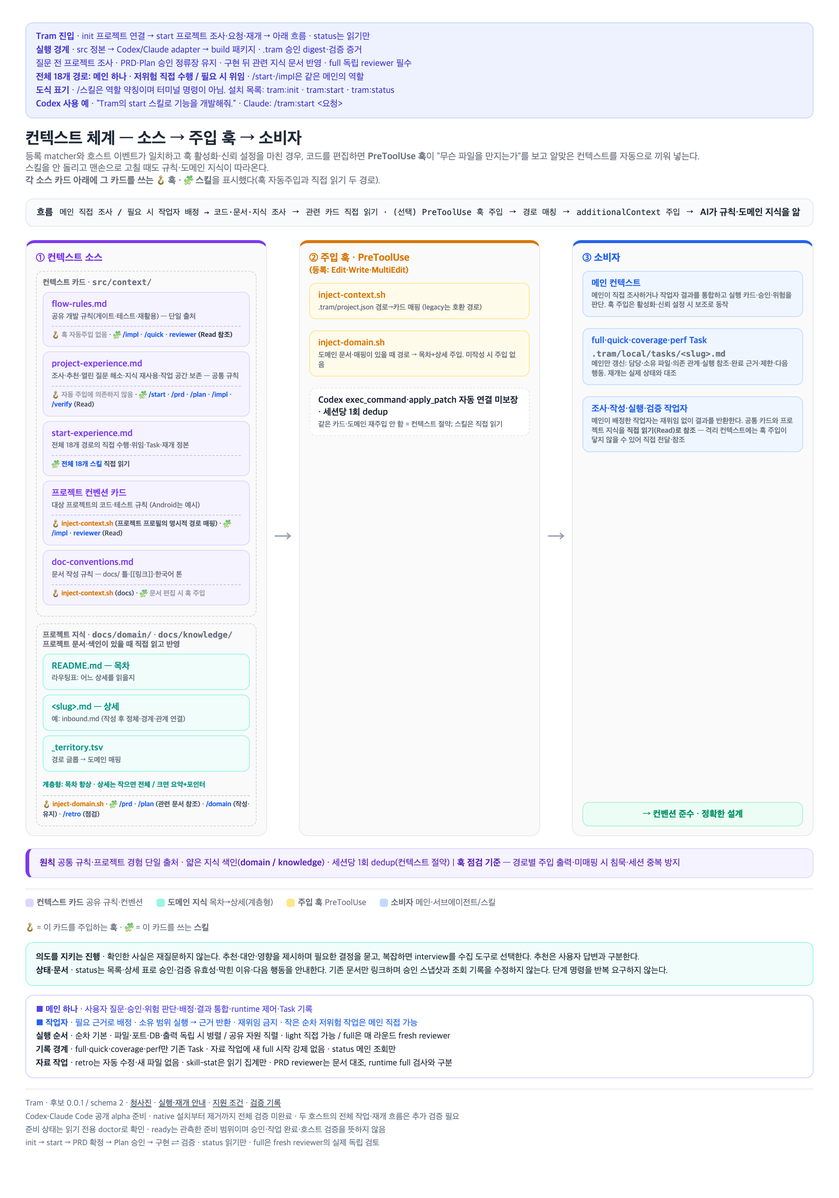
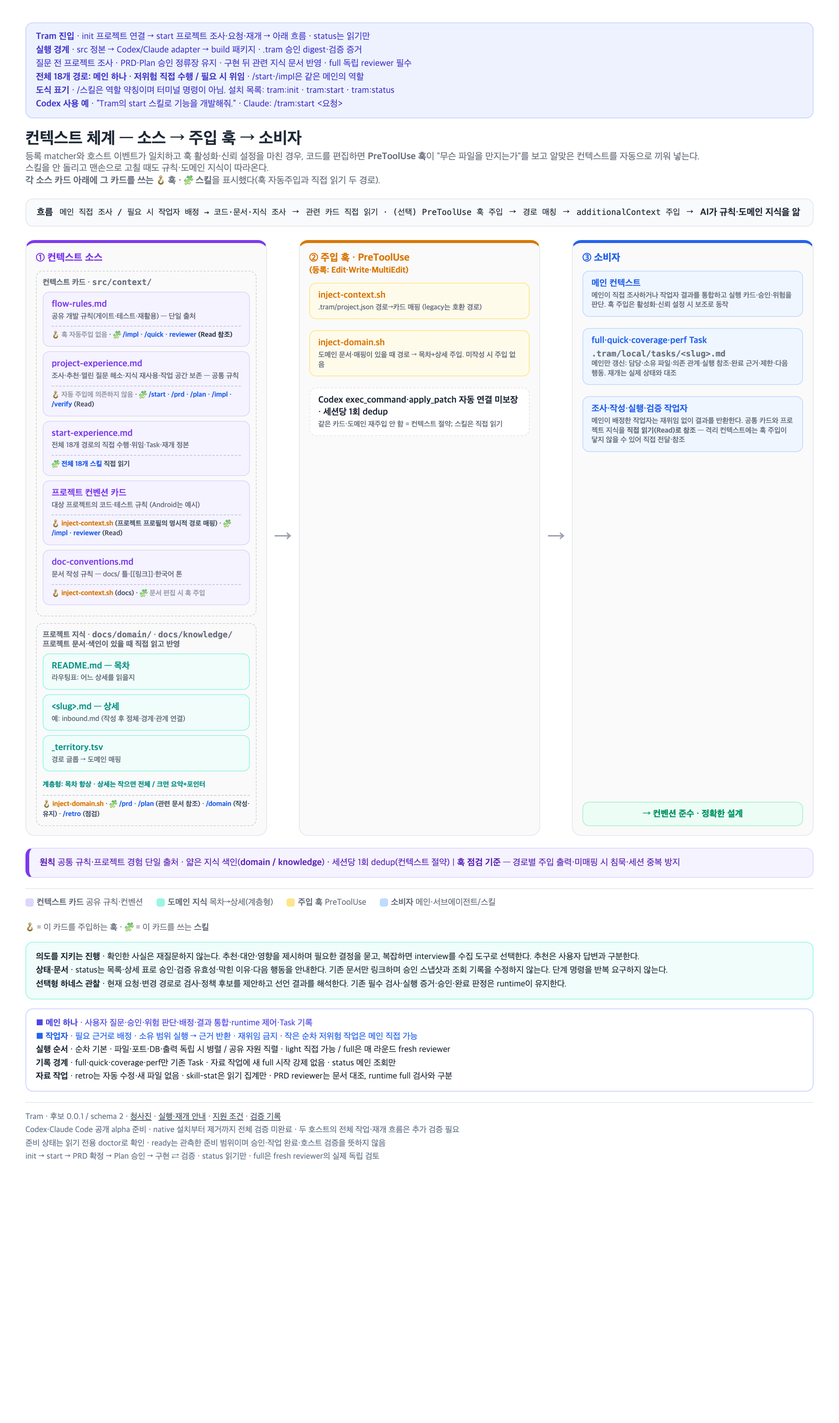
docs: 질문 방식과 하네스 안내 정비

diff --git a/docs/diagrams/context-system.html b/docs/diagrams/context-system.html
@@ -1,4 +1,4 @@
-<!doctype html><html lang="ko"><head><meta charset="utf-8"><title>컨텍스트 체계</title><style>*{box-sizing:border-box}body{font-family:-apple-system,"Apple SD Gothic Neo",sans-serif;color:#1f2937;margin:0;padding:30px 34px;width:1120px}h1{font-size:22px;margin:0 0 3px}.sub{color:#6b7280;font-size:12.5px;margin:0 0 16px}.flowband{background:#f8fafc;border:1px solid #e5e7eb;border-radius:10px;padding:10px 14px;font-size:12.5px;margin-bottom:18px;display:flex;gap:9px;flex-wrap:wrap;align-items:center}code{font-size:11px}.pipe{display:flex;gap:10px}.col{flex:1;border:1px solid #e5e7eb;border-radius:12px;background:#fafafa;padding:12px 13px;display:flex;flex-direction:column;gap:9px}.src{border-top:4px solid #7c3aed}.hook{border-top:4px solid #d97706}.cons{border-top:4px solid #2563eb}.head{font-size:13.5px;font-weight:800}.src .head{color:#7c3aed}.hook .head{color:#d97706}.cons .head{color:#2563eb}.group{border:1px dashed #d1d5db;border-radius:9px;padding:8px}.gt{font-size:10.5px;color:#6b7280;font-weight:800;margin-bottom:6px}.card{border:1px solid;border-radius:9px;padding:8px 11px;font-size:12px;line-height:1.32;font-weight:700;margin-bottom:6px}.card .k{display:block;font-size:9.7px;color:#6b7280;font-weight:600;margin-top:2px}.custom{background:#f5f3ff;border-color:#ddd6fe;color:#7c3aed}.stage{background:#f0fdfa;border-color:#99f6e4;color:#0d9488}.hc{background:#fffbeb;border-color:#fde68a;color:#d97706}.agent{background:#eff6ff;border-color:#bfdbfe;color:#2563eb}.dedup{background:white;border-color:#e5e7eb;border-style:dashed}.arrow{display:flex;align-items:center;font-size:26px;color:#9ca3af;font-weight:800}.lift{font-size:9.5px;color:#0d9488;font-weight:800}.outcome{margin-top:auto;background:#ecfdf5;border:1px solid #a7f3d0;color:#059669;border-radius:9px;padding:8px 11px;font-size:12px;text-align:center;font-weight:800}.principle{margin-top:16px;background:#f5f3ff;border:1px solid #ddd6fe;border-left:5px solid #7c3aed;border-radius:10px;padding:10px 14px;font-size:12px;line-height:1.5;color:#5b21b6}.legend{flex-wrap:wrap;margin-top:14px;border-top:1px solid #e5e7eb;padding-top:11px;display:flex;gap:18px;font-size:11.5px;color:#6b7280;flex-wrap:wrap}.sw{display:inline-block;width:11px;height:11px;border-radius:3px;vertical-align:middle;margin-right:4px}.uses{display:block;font-size:9.3px;font-weight:700;color:#475569;margin-top:6px;padding-top:5px;border-top:1px dashed rgba(100,116,139,.35);line-height:1.4}.uses b{color:#334155;font-weight:800}.uses .uh{color:#d97706;font-weight:800}.uses .us{color:#2563eb;font-weight:800}.uses .un{color:#9ca3af;font-weight:700}</style><style>.project-source{margin-top:14px;padding-top:10px;border-top:1px solid #e5e7eb;color:#64748b;font-size:11px;line-height:1.6;letter-spacing:0;overflow-wrap:anywhere}.project-source a{color:#475569;text-decoration:underline}.project-source code{font-size:10px}</style><style>.legend>span{max-width:100%;overflow-wrap:anywhere}</style></head><body><div style="background:#eef2ff;border:1px solid #c7d2fe;border-radius:10px;padding:9px 13px;margin-bottom:14px;font-size:12px;line-height:1.5;color:#4338ca"><b>Tram 진입</b> · init 프로젝트 연결 → start 프로젝트 조사·요청·재개 → 아래 흐름 · status는 읽기만<br><b>실행 경계</b> · src 정본 → Codex/Claude adapter → build 패키지 · .tram 승인 digest·검증 증거<br>질문 전 프로젝트 조사 · PRD·Plan 승인 정류장 유지 · 구현 뒤 관련 지식 문서 반영 · full 독립 reviewer 필수<br><b>전체 18개 경로: 메인 하나 · 저위험 직접 수행 / 필요 시 위임</b> · /start·/impl은 같은 메인의 역할<br><b>도식 표기</b> · /스킬은 역할 약칭이며 터미널 명령이 아님. 설치 목록: tram:init · tram:start · tram:status<br><b>Codex 사용 예</b> · “Tram의 start 스킬로 기능을 개발해줘.” · Claude: /tram:start &lt;요청&gt;</div><h1>컨텍스트 체계 — 소스 → 주입 훅 → 소비자</h1><p class="sub">등록 matcher와 호스트 이벤트가 일치하고 훅 활성화·신뢰 설정을 마친 경우, 코드를 편집하면 <b>PreToolUse 훅</b>이 "무슨 파일을 만지는가"를 보고 알맞은 컨텍스트를 자동으로 끼워 넣는다.<br>스킬을 안 돌리고 맨손으로 고칠 때도 규칙·도메인 지식이 따라온다.<br><b>각 소스 카드 아래에 그 카드를 쓰는 🪝 훅 · 🧩 스킬</b>을 표시했다(훅 자동주입과 직접 읽기 두 경로).</p><div class="flowband"><b>흐름</b><code>메인 직접 조사 / 필요 시 작업자 배정 → 코드·문서·지식 조사</code> → <code>관련 카드 직접 읽기 · (선택) PreToolUse 훅 주입</code> → <code>경로 매칭</code> → <code>additionalContext 주입</code> → <b>AI가 규칙·도메인 지식을 앎</b></div><div class="pipe"><div class="col src"><div class="head">① 컨텍스트 소스</div><div class="group"><div class="gt">컨텍스트 카드 · <code>src/context/</code></div><div class="card custom">flow-rules.md<span class="k">공유 개발 규칙(게이트·테스트·재활용) — 단일 출처</span><span class="uses">🪝 <span class="un">훅 자동주입 없음</span> · 🧩 <span class="us">/impl · /quick · reviewer</span> <b>(Read 참조)</b></span></div><div class="card custom">project-experience.md<span class="k">조사·추천·열린 질문 해소·지식 재사용·작업 공간 보존 — 공통 규칙</span><span class="uses">🪝 <span class="un">자동 주입에 의존하지 않음</span> · 🧩 <span class="us">/start · /prd · /plan · /impl · /verify</span> (Read)</span></div><div class="card custom">start-experience.md<span class="k">전체 18개 경로의 직접 수행·위임·Task·재개 정본</span><span class="uses">🧩 <span class="us">전체 18개 스킬</span> 직접 읽기</span></div><div class="card custom">프로젝트 컨벤션 카드<span class="k">대상 프로젝트의 코드·테스트 규칙 (Android는 예시)</span><span class="uses">🪝 <span class="uh">inject-context.sh</span> (프로젝트 프로필의 명시적 경로 매핑) · 🧩 <span class="us">/impl · reviewer</span> (Read)</span></div><div class="card custom">doc-conventions.md<span class="k">문서 작성 규칙 — docs/ 틀·[[링크]]·한국어 톤</span><span class="uses">🪝 <span class="uh">inject-context.sh</span> (docs) · 🧩 <span class="un">문서 편집 시 훅 주입</span></span></div></div><div class="group"><div class="gt">프로젝트 지식 · <code>docs/domain/</code> · <code>docs/knowledge/</code><br>프로젝트 문서·색인이 있을 때 직접 읽고 반영</div><div class="card stage">README.md — 목차<span class="k">라우팅표: 어느 상세를 읽을지</span></div><div class="card stage">&lt;slug&gt;.md — 상세<span class="k">예: inbound.md (작성 후 정체·경계·관계 연결)</span></div><div class="card stage">_territory.tsv<span class="k">경로 글롭 → 도메인 매핑</span></div><span class="lift">계층형: 목차 항상 · 상세는 작으면 전체 / 크면 요약+포인터</span><span class="uses">🪝 <span class="uh">inject-domain.sh</span> · 🧩 <span class="us">/prd · /plan</span> (관련 문서 참조) · <span class="us">/domain</span> (작성·유지) · <span class="us">/retro</span> (점검)</span></div></div><div class="arrow">→</div><div class="col hook"><div class="head">② 주입 훅 · PreToolUse<br><small>(등록: Edit·Write·MultiEdit)</small></div><div class="card hc">inject-context.sh<span class="k">.tram/project.json 경로→카드 매핑 (legacy는 호환 경로)</span></div><div class="card hc">inject-domain.sh<span class="k">도메인 문서·매핑이 있을 때 경로 → 목차+상세 주입. 미작성 시 주입 없음</span></div><div class="card dedup">Codex exec_command·apply_patch 자동 연결 미보장 · 세션당 1회 dedup<span class="k">같은 카드·도메인 재주입 안 함 = 컨텍스트 절약; 스킬은 직접 읽기</span></div></div><div class="arrow">→</div><div class="col cons"><div class="head">③ 소비자</div><div class="card agent">메인 컨텍스트<span class="k">메인이 직접 조사하거나 작업자 결과를 통합하고 실행 카드·승인·위험을 판단. 훅 주입은 활성화·신뢰 설정 시 보조로 동작</span></div><div class="card agent">full·quick·coverage·perf Task<span class="k"><code>.tram/local/tasks/&lt;slug&gt;.md</code><br>메인만 갱신: 담당·소유 파일·의존 관계·실행 참조·완료 근거·제한·다음 행동. 재개는 실제 상태와 대조</span></div><div class="card agent">조사·작성·실행·검증 작업자<span class="k">메인이 배정한 작업자는 재위임 없이 결과를 반환한다. 공통 카드와 프로젝트 지식을 <b>직접 읽기(Read)로 참조</b> — 격리 컨텍스트에는 훅 주입이 닿지 않을 수 있어 직접 전달·참조</span></div><div class="outcome">→ 컨벤션 준수 · 정확한 설계</div></div></div><div class="principle"><b>원칙</b> 공통 규칙·프로젝트 경험 단일 출처 · 얇은 지식 색인(<b>domain / knowledge</b>) · 세션당 1회 dedup(컨텍스트 절약) | <b>훅 점검 기준</b> — 경로별 주입 출력·미매핑 시 침묵·세션 중복 방지</div><div class="legend"><span><span class="sw" style="background:#ddd6fe"></span><b>컨텍스트 카드</b> 공유 규칙·컨벤션</span><span><span class="sw" style="background:#99f6e4"></span><b>도메인 지식</b> 목차→상세(계층형)</span><span><span class="sw" style="background:#fde68a"></span><b>주입 훅</b> PreToolUse</span><span><span class="sw" style="background:#bfdbfe"></span><b>소비자</b> 메인·서브에이전트/스킬</span><span style="flex-basis:100%;margin-left:0">🪝 = 이 카드를 주입하는 <b>훅</b> · 🧩 = 이 카드를 쓰는 <b>스킬</b></span></div><div style="margin:12px 0;padding:10px 13px;border:1px solid #99f6e4;border-radius:10px;background:#f0fdfa;font-size:11.5px;line-height:1.6"><b>의도를 지키는 진행</b> · 확인한 사실은 재질문하지 않는다. 추천·대안·영향을 제시하며 필요한 결정을 묻고, 복잡하면 interview를 수집 도구로 선택한다. 추천은 사용자 답변과 구분한다.<br><b>상태·문서</b> · status는 목록·상세 표로 승인·검증 유효성·막힌 이유·다음 행동을 안내한다. 기존 문서만 링크하며 승인 스냅샷과 조회 기록을 수정하지 않는다. 단계 명령을 반복 요구하지 않는다.</div>
+<!doctype html><html lang="ko"><head><meta charset="utf-8"><title>컨텍스트 체계</title><style>*{box-sizing:border-box}body{font-family:-apple-system,"Apple SD Gothic Neo",sans-serif;color:#1f2937;margin:0;padding:30px 34px;width:1120px}h1{font-size:22px;margin:0 0 3px}.sub{color:#6b7280;font-size:12.5px;margin:0 0 16px}.flowband{background:#f8fafc;border:1px solid #e5e7eb;border-radius:10px;padding:10px 14px;font-size:12.5px;margin-bottom:18px;display:flex;gap:9px;flex-wrap:wrap;align-items:center}code{font-size:11px}.pipe{display:flex;gap:10px}.col{flex:1;border:1px solid #e5e7eb;border-radius:12px;background:#fafafa;padding:12px 13px;display:flex;flex-direction:column;gap:9px}.src{border-top:4px solid #7c3aed}.hook{border-top:4px solid #d97706}.cons{border-top:4px solid #2563eb}.head{font-size:13.5px;font-weight:800}.src .head{color:#7c3aed}.hook .head{color:#d97706}.cons .head{color:#2563eb}.group{border:1px dashed #d1d5db;border-radius:9px;padding:8px}.gt{font-size:10.5px;color:#6b7280;font-weight:800;margin-bottom:6px}.card{border:1px solid;border-radius:9px;padding:8px 11px;font-size:12px;line-height:1.32;font-weight:700;margin-bottom:6px}.card .k{display:block;font-size:9.7px;color:#6b7280;font-weight:600;margin-top:2px}.custom{background:#f5f3ff;border-color:#ddd6fe;color:#7c3aed}.stage{background:#f0fdfa;border-color:#99f6e4;color:#0d9488}.hc{background:#fffbeb;border-color:#fde68a;color:#d97706}.agent{background:#eff6ff;border-color:#bfdbfe;color:#2563eb}.dedup{background:white;border-color:#e5e7eb;border-style:dashed}.arrow{display:flex;align-items:center;font-size:26px;color:#9ca3af;font-weight:800}.lift{font-size:9.5px;color:#0d9488;font-weight:800}.outcome{margin-top:auto;background:#ecfdf5;border:1px solid #a7f3d0;color:#059669;border-radius:9px;padding:8px 11px;font-size:12px;text-align:center;font-weight:800}.principle{margin-top:16px;background:#f5f3ff;border:1px solid #ddd6fe;border-left:5px solid #7c3aed;border-radius:10px;padding:10px 14px;font-size:12px;line-height:1.5;color:#5b21b6}.legend{flex-wrap:wrap;margin-top:14px;border-top:1px solid #e5e7eb;padding-top:11px;display:flex;gap:18px;font-size:11.5px;color:#6b7280;flex-wrap:wrap}.sw{display:inline-block;width:11px;height:11px;border-radius:3px;vertical-align:middle;margin-right:4px}.uses{display:block;font-size:9.3px;font-weight:700;color:#475569;margin-top:6px;padding-top:5px;border-top:1px dashed rgba(100,116,139,.35);line-height:1.4}.uses b{color:#334155;font-weight:800}.uses .uh{color:#d97706;font-weight:800}.uses .us{color:#2563eb;font-weight:800}.uses .un{color:#9ca3af;font-weight:700}</style><style>.project-source{margin-top:14px;padding-top:10px;border-top:1px solid #e5e7eb;color:#64748b;font-size:11px;line-height:1.6;letter-spacing:0;overflow-wrap:anywhere}.project-source a{color:#475569;text-decoration:underline}.project-source code{font-size:10px}</style><style>.legend>span{max-width:100%;overflow-wrap:anywhere}</style></head><body><div style="background:#eef2ff;border:1px solid #c7d2fe;border-radius:10px;padding:9px 13px;margin-bottom:14px;font-size:12px;line-height:1.5;color:#4338ca"><b>Tram 진입</b> · init 프로젝트 연결 → start 프로젝트 조사·요청·재개 → 아래 흐름 · status는 읽기만<br><b>실행 경계</b> · src 정본 → Codex/Claude adapter → build 패키지 · .tram 승인 digest·검증 증거<br>질문 전 프로젝트 조사 · PRD·Plan 승인 정류장 유지 · 구현 뒤 관련 지식 문서 반영 · full 독립 reviewer 필수<br><b>전체 18개 경로: 메인 하나 · 저위험 직접 수행 / 필요 시 위임</b> · /start·/impl은 같은 메인의 역할<br><b>도식 표기</b> · /스킬은 역할 약칭이며 터미널 명령이 아님. 설치 목록: tram:init · tram:start · tram:status<br><b>Codex 사용 예</b> · “Tram의 start 스킬로 기능을 개발해줘.” · Claude: /tram:start &lt;요청&gt;</div><h1>컨텍스트 체계 — 소스 → 주입 훅 → 소비자</h1><p class="sub">등록 matcher와 호스트 이벤트가 일치하고 훅 활성화·신뢰 설정을 마친 경우, 코드를 편집하면 <b>PreToolUse 훅</b>이 "무슨 파일을 만지는가"를 보고 알맞은 컨텍스트를 자동으로 끼워 넣는다.<br>스킬을 안 돌리고 맨손으로 고칠 때도 규칙·도메인 지식이 따라온다.<br><b>각 소스 카드 아래에 그 카드를 쓰는 🪝 훅 · 🧩 스킬</b>을 표시했다(훅 자동주입과 직접 읽기 두 경로).</p><div class="flowband"><b>흐름</b><code>메인 직접 조사 / 필요 시 작업자 배정 → 코드·문서·지식 조사</code> → <code>관련 카드 직접 읽기 · (선택) PreToolUse 훅 주입</code> → <code>경로 매칭</code> → <code>additionalContext 주입</code> → <b>AI가 규칙·도메인 지식을 앎</b></div><div class="pipe"><div class="col src"><div class="head">① 컨텍스트 소스</div><div class="group"><div class="gt">컨텍스트 카드 · <code>src/context/</code></div><div class="card custom">flow-rules.md<span class="k">공유 개발 규칙(게이트·테스트·재활용) — 단일 출처</span><span class="uses">🪝 <span class="un">훅 자동주입 없음</span> · 🧩 <span class="us">/impl · /quick · reviewer</span> <b>(Read 참조)</b></span></div><div class="card custom">project-experience.md<span class="k">조사·추천·열린 질문 해소·지식 재사용·작업 공간 보존 — 공통 규칙</span><span class="uses">🪝 <span class="un">자동 주입에 의존하지 않음</span> · 🧩 <span class="us">/start · /prd · /plan · /impl · /verify</span> (Read)</span></div><div class="card custom">start-experience.md<span class="k">전체 18개 경로의 직접 수행·위임·Task·재개 정본</span><span class="uses">🧩 <span class="us">전체 18개 스킬</span> 직접 읽기</span></div><div class="card custom">프로젝트 컨벤션 카드<span class="k">대상 프로젝트의 코드·테스트 규칙 (Android는 예시)</span><span class="uses">🪝 <span class="uh">inject-context.sh</span> (프로젝트 프로필의 명시적 경로 매핑) · 🧩 <span class="us">/impl · reviewer</span> (Read)</span></div><div class="card custom">doc-conventions.md<span class="k">문서 작성 규칙 — docs/ 틀·[[링크]]·한국어 톤</span><span class="uses">🪝 <span class="uh">inject-context.sh</span> (docs) · 🧩 <span class="un">문서 편집 시 훅 주입</span></span></div></div><div class="group"><div class="gt">프로젝트 지식 · <code>docs/domain/</code> · <code>docs/knowledge/</code><br>프로젝트 문서·색인이 있을 때 직접 읽고 반영</div><div class="card stage">README.md — 목차<span class="k">라우팅표: 어느 상세를 읽을지</span></div><div class="card stage">&lt;slug&gt;.md — 상세<span class="k">예: inbound.md (작성 후 정체·경계·관계 연결)</span></div><div class="card stage">_territory.tsv<span class="k">경로 글롭 → 도메인 매핑</span></div><span class="lift">계층형: 목차 항상 · 상세는 작으면 전체 / 크면 요약+포인터</span><span class="uses">🪝 <span class="uh">inject-domain.sh</span> · 🧩 <span class="us">/prd · /plan</span> (관련 문서 참조) · <span class="us">/domain</span> (작성·유지) · <span class="us">/retro</span> (점검)</span></div></div><div class="arrow">→</div><div class="col hook"><div class="head">② 주입 훅 · PreToolUse<br><small>(등록: Edit·Write·MultiEdit)</small></div><div class="card hc">inject-context.sh<span class="k">.tram/project.json 경로→카드 매핑 (legacy는 호환 경로)</span></div><div class="card hc">inject-domain.sh<span class="k">도메인 문서·매핑이 있을 때 경로 → 목차+상세 주입. 미작성 시 주입 없음</span></div><div class="card dedup">Codex exec_command·apply_patch 자동 연결 미보장 · 세션당 1회 dedup<span class="k">같은 카드·도메인 재주입 안 함 = 컨텍스트 절약; 스킬은 직접 읽기</span></div></div><div class="arrow">→</div><div class="col cons"><div class="head">③ 소비자</div><div class="card agent">메인 컨텍스트<span class="k">메인이 직접 조사하거나 작업자 결과를 통합하고 실행 카드·승인·위험을 판단. 훅 주입은 활성화·신뢰 설정 시 보조로 동작</span></div><div class="card agent">full·quick·coverage·perf Task<span class="k"><code>.tram/local/tasks/&lt;slug&gt;.md</code><br>메인만 갱신: 담당·소유 파일·의존 관계·실행 참조·완료 근거·제한·다음 행동. 재개는 실제 상태와 대조</span></div><div class="card agent">조사·작성·실행·검증 작업자<span class="k">메인이 배정한 작업자는 재위임 없이 결과를 반환한다. 공통 카드와 프로젝트 지식을 <b>직접 읽기(Read)로 참조</b> — 격리 컨텍스트에는 훅 주입이 닿지 않을 수 있어 직접 전달·참조</span></div><div class="outcome">→ 컨벤션 준수 · 정확한 설계</div></div></div><div class="principle"><b>원칙</b> 공통 규칙·프로젝트 경험 단일 출처 · 얇은 지식 색인(<b>domain / knowledge</b>) · 세션당 1회 dedup(컨텍스트 절약) | <b>훅 점검 기준</b> — 경로별 주입 출력·미매핑 시 침묵·세션 중복 방지</div><div class="legend"><span><span class="sw" style="background:#ddd6fe"></span><b>컨텍스트 카드</b> 공유 규칙·컨벤션</span><span><span class="sw" style="background:#99f6e4"></span><b>도메인 지식</b> 목차→상세(계층형)</span><span><span class="sw" style="background:#fde68a"></span><b>주입 훅</b> PreToolUse</span><span><span class="sw" style="background:#bfdbfe"></span><b>소비자</b> 메인·서브에이전트/스킬</span><span style="flex-basis:100%;margin-left:0">🪝 = 이 카드를 주입하는 <b>훅</b> · 🧩 = 이 카드를 쓰는 <b>스킬</b></span></div><div style="margin:12px 0;padding:10px 13px;border:1px solid #99f6e4;border-radius:10px;background:#f0fdfa;font-size:11.5px;line-height:1.6"><b>의도를 지키는 진행</b> · 확인한 사실은 재질문하지 않는다. 추천·대안·영향을 제시하며 필요한 결정을 묻고, 복잡하면 interview를 수집 도구로 선택한다. 추천은 사용자 답변과 구분한다.<br><b>상태·문서</b> · status는 목록·상세 표로 승인·검증 유효성·막힌 이유·다음 행동을 안내한다. 기존 문서만 링크하며 승인 스냅샷과 조회 기록을 수정하지 않는다. 단계 명령을 반복 요구하지 않는다.<br><b>선택형 하네스 관찰</b> · 현재 요청·변경 경로로 검사·정책 후보를 제안하고 선언 결과를 해석한다. 기존 필수 검사·실행 증거·승인·완료 판정은 runtime이 유지한다.</div>
 <div class="orchestration" style="margin:12px 0;padding:10px 13px;border:1px solid #c7d2fe;border-radius:10px;font-size:11.5px;line-height:1.55"><span style="color:#4f46e5"><b>■ 메인 하나</b> · 사용자 질문·승인·위험 판단·배정·결과 통합·runtime 제어·Task 기록</span><br><span style="color:#2563eb"><b>■ 작업자</b> · 필요 근거로 배정 · 소유 범위 실행 → 근거 반환 · 재위임 금지 · 작은 순차 저위험 작업은 메인 직접 가능</span><br><b>실행 순서</b> · 순차 기본 · 파일·포트·DB·출력 독립 시 병렬 / 공유 자원 직렬 · light 직접 가능 / full은 매 라운드 fresh reviewer<br><b>기록 경계</b> · full·quick·coverage·perf만 기존 Task · 자료 작업에 새 full 시작 강제 없음 · status 메인 조회만<br><b>자료 작업</b> · retro는 자동 수정·새 파일 없음 · skill-stat은 읽기 집계만 · PRD reviewer는 문서 대조, runtime full 검사와 구분</div><div class="project-source">Tram · 후보 0.0.1 / schema 2 · <a href="../../OS.md">청사진</a> · <a href="../../src/context/start-experience.md">실행·재개 안내</a> · <a href="../../docs/support.md">지원 조건</a> · <a href="../../docs/release-validation.md">검증 기록</a><br>
 Codex·Claude Code 공개 alpha 준비 · native 설치부터 제거까지 전체 검증 미완료 · 두 호스트의 전체 작업·재개 흐름은 추가 검증 필요<br>
 준비 상태는 읽기 전용 doctor로 확인 · ready는 관측한 준비 범위이며 승인·작업 완료·호스트 검증을 뜻하지 않음<br>

diff --git a/docs/diagrams/os-flow.html b/docs/diagrams/os-flow.html
@@ -112,8 +112,6 @@
       <div class="loopbox" data-label="🔁 수정 루프 · 승인까지 반복">
         <div class="chip c-skill"><span class="t">재활용 1차 스캔</span><span class="k">조사 작업자(rg)</span></div>
         <span class="sep">→</span>
-        <div class="chip c-skill"><span class="t">footprint 스캔 (조건부)</span><span class="k">1.5 · 유사 산출물 추가 시 빈칸</span></div>
-        <span class="sep">→</span>
         <div class="chip c-agent"><span class="t">메인 갭 분류 → 표적 조사 배정</span><span class="k">독립·비중첩 갭만 병렬 · 결과 후 설계</span></div>
         <span class="sep">→</span>
         <div class="chip c-agent"><span class="t">Plan 설계</span><span class="k">plan_designer</span></div>

diff --git a/tests/test_skill_contracts.py b/tests/test_skill_contracts.py
@@ -31,7 +31,7 @@ def markdown_section(content, heading):
 class SkillContracts(unittest.TestCase):
     def test_guided_onboarding_and_native_question_contracts(self):
         questions = read("context/user-questions.md")
-        for boundary in ("실제 도구로 질문", "추천 선택지를 먼저", "자유롭게 입력", "의존하는 질문", "필요한 자유 입력을 지원하지", "일반 대화",
+        for boundary in ("선택형 결정은 사용 가능하면 실제 도구로 질문", "긴 설명이나 여러 맥락이 필요한 답변은 일반 대화", "질문을 쪼개지 않는다", "검토 대상과 승인 범위를 대화에 명확히", "추천 선택지를 먼저", "자유롭게 입력", "의존하는 질문", "필요한 자유 입력을 지원하지", "일반 대화",
                          "도구 접수·실제 화면 표시·사용자의 응답은 별개", "실제 확인하지 않은 화면 표시와 응답을 성공으로 보고하지 않는다",
                          "명시적 응답"):
             self.assertIn(boundary, questions)

diff --git a/build/claude/context/user-questions.md b/build/claude/context/user-questions.md
@@ -1,7 +1,7 @@
 # 사용자 질문과 호스트 입력
 
-사용자에게 결정이나 정보를 요청할 때 메인은 현재 호스트가 제공하는 구조화 질문 도구와 호출 조건을 확인하고, 사용 가능하면 실제 도구로 질문한다. 텍스트로 선택지를 나열한 것을 네이티브 UI 호출로 간주하지 않는다. 도구의 옵션 개수·라벨·입력 형식과 현재 모드의 제한을 따른다.
+사용자에게 결정이나 정보를 요청할 때 메인은 현재 호스트가 제공하는 구조화 질문 도구와 호출 조건을 확인하고, 선택형 결정은 사용 가능하면 실제 도구로 질문한다. 짧은 정보 확인이나 자유 입력도 지원하면 도구를 사용하되 입력이 불편하면 일반 대화를 허용한다. 긴 설명이나 여러 맥락이 필요한 답변은 일반 대화로 받을 수 있으며, 도구의 입력 제한에 맞추려고 질문을 쪼개지 않는다. 진행 상황과 답변이 필요 없는 설명에는 질문 도구를 사용하지 않는다. 텍스트로 선택지를 나열한 것을 네이티브 UI 호출로 간주하지 않는다. 도구의 옵션 개수·라벨·입력 형식과 현재 모드의 제한을 따른다.
 
 선택 가능한 질문은 배경과 영향, 근거 있는 추천을 담고 추천 선택지를 먼저 배치하며 다른 답을 자유롭게 입력할 수 있게 한다. 선택지를 정하기 어려운 질문은 자유 입력을 사용한다. 독립 질문은 소수로 묶고 앞 답변에 의존하는 질문은 답변 후 제시한다. 사용자에게 확인한 사실은 다시 묻지 않으며, 질문 도구의 기본 선택값을 제출된 답으로 취급하지 않는다.
 
-도구가 없거나 현재 모드에서 허용되지 않거나, 필요한 자유 입력을 지원하지 않거나 호출이 실패하면 같은 질문을 일반 대화로 전달하고 답변을 기다린다. 도구 접수·실제 화면 표시·사용자의 응답은 별개다. 실제 확인하지 않은 화면 표시와 응답을 성공으로 보고하지 않는다. 참고 자료 사용이나 개별 질문의 답은 PRD·Plan 승인, 외부 쓰기 권한과 별개이며, 각 승인 대상과 범위에 대한 명시적 응답만 해당 승인으로 기록한다. status는 조회만 하며 질문을 위한 기록이나 상태 전이를 만들지 않는다.
+도구가 없거나 현재 모드에서 허용되지 않거나, 필요한 자유 입력을 지원하지 않거나 호출이 실패하면 같은 질문을 일반 대화로 전달하고 답변을 기다린다. PRD·Plan 승인은 검토 대상과 승인 범위를 대화에 명확히 제시한 뒤 가능한 경우 구조화 도구로 승인 여부를 확인한다. 도구 접수·실제 화면 표시·사용자의 응답은 별개다. 실제 확인하지 않은 화면 표시와 응답을 성공으로 보고하지 않는다. 참고 자료 사용이나 개별 질문의 답은 PRD·Plan 승인, 외부 쓰기 권한과 별개이며, 각 승인 대상과 범위에 대한 명시적 응답만 해당 승인으로 기록한다. status는 조회만 하며 질문을 위한 기록이나 상태 전이를 만들지 않는다.

diff --git a/build/codex/context/user-questions.md b/build/codex/context/user-questions.md
@@ -1,7 +1,7 @@
 # 사용자 질문과 호스트 입력
 
-사용자에게 결정이나 정보를 요청할 때 메인은 현재 호스트가 제공하는 구조화 질문 도구와 호출 조건을 확인하고, 사용 가능하면 실제 도구로 질문한다. 텍스트로 선택지를 나열한 것을 네이티브 UI 호출로 간주하지 않는다. 도구의 옵션 개수·라벨·입력 형식과 현재 모드의 제한을 따른다.
+사용자에게 결정이나 정보를 요청할 때 메인은 현재 호스트가 제공하는 구조화 질문 도구와 호출 조건을 확인하고, 선택형 결정은 사용 가능하면 실제 도구로 질문한다. 짧은 정보 확인이나 자유 입력도 지원하면 도구를 사용하되 입력이 불편하면 일반 대화를 허용한다. 긴 설명이나 여러 맥락이 필요한 답변은 일반 대화로 받을 수 있으며, 도구의 입력 제한에 맞추려고 질문을 쪼개지 않는다. 진행 상황과 답변이 필요 없는 설명에는 질문 도구를 사용하지 않는다. 텍스트로 선택지를 나열한 것을 네이티브 UI 호출로 간주하지 않는다. 도구의 옵션 개수·라벨·입력 형식과 현재 모드의 제한을 따른다.
 
 선택 가능한 질문은 배경과 영향, 근거 있는 추천을 담고 추천 선택지를 먼저 배치하며 다른 답을 자유롭게 입력할 수 있게 한다. 선택지를 정하기 어려운 질문은 자유 입력을 사용한다. 독립 질문은 소수로 묶고 앞 답변에 의존하는 질문은 답변 후 제시한다. 사용자에게 확인한 사실은 다시 묻지 않으며, 질문 도구의 기본 선택값을 제출된 답으로 취급하지 않는다.
 
-도구가 없거나 현재 모드에서 허용되지 않거나, 필요한 자유 입력을 지원하지 않거나 호출이 실패하면 같은 질문을 일반 대화로 전달하고 답변을 기다린다. 도구 접수·실제 화면 표시·사용자의 응답은 별개다. 실제 확인하지 않은 화면 표시와 응답을 성공으로 보고하지 않는다. 참고 자료 사용이나 개별 질문의 답은 PRD·Plan 승인, 외부 쓰기 권한과 별개이며, 각 승인 대상과 범위에 대한 명시적 응답만 해당 승인으로 기록한다. status는 조회만 하며 질문을 위한 기록이나 상태 전이를 만들지 않는다.
+도구가 없거나 현재 모드에서 허용되지 않거나, 필요한 자유 입력을 지원하지 않거나 호출이 실패하면 같은 질문을 일반 대화로 전달하고 답변을 기다린다. PRD·Plan 승인은 검토 대상과 승인 범위를 대화에 명확히 제시한 뒤 가능한 경우 구조화 도구로 승인 여부를 확인한다. 도구 접수·실제 화면 표시·사용자의 응답은 별개다. 실제 확인하지 않은 화면 표시와 응답을 성공으로 보고하지 않는다. 참고 자료 사용이나 개별 질문의 답은 PRD·Plan 승인, 외부 쓰기 권한과 별개이며, 각 승인 대상과 범위에 대한 명시적 응답만 해당 승인으로 기록한다. status는 조회만 하며 질문을 위한 기록이나 상태 전이를 만들지 않는다.

diff --git a/src/context/user-questions.md b/src/context/user-questions.md
@@ -1,7 +1,7 @@
 # 사용자 질문과 호스트 입력
 
-사용자에게 결정이나 정보를 요청할 때 메인은 현재 호스트가 제공하는 구조화 질문 도구와 호출 조건을 확인하고, 사용 가능하면 실제 도구로 질문한다. 텍스트로 선택지를 나열한 것을 네이티브 UI 호출로 간주하지 않는다. 도구의 옵션 개수·라벨·입력 형식과 현재 모드의 제한을 따른다.
+사용자에게 결정이나 정보를 요청할 때 메인은 현재 호스트가 제공하는 구조화 질문 도구와 호출 조건을 확인하고, 선택형 결정은 사용 가능하면 실제 도구로 질문한다. 짧은 정보 확인이나 자유 입력도 지원하면 도구를 사용하되 입력이 불편하면 일반 대화를 허용한다. 긴 설명이나 여러 맥락이 필요한 답변은 일반 대화로 받을 수 있으며, 도구의 입력 제한에 맞추려고 질문을 쪼개지 않는다. 진행 상황과 답변이 필요 없는 설명에는 질문 도구를 사용하지 않는다. 텍스트로 선택지를 나열한 것을 네이티브 UI 호출로 간주하지 않는다. 도구의 옵션 개수·라벨·입력 형식과 현재 모드의 제한을 따른다.
 
 선택 가능한 질문은 배경과 영향, 근거 있는 추천을 담고 추천 선택지를 먼저 배치하며 다른 답을 자유롭게 입력할 수 있게 한다. 선택지를 정하기 어려운 질문은 자유 입력을 사용한다. 독립 질문은 소수로 묶고 앞 답변에 의존하는 질문은 답변 후 제시한다. 사용자에게 확인한 사실은 다시 묻지 않으며, 질문 도구의 기본 선택값을 제출된 답으로 취급하지 않는다.
 
-도구가 없거나 현재 모드에서 허용되지 않거나, 필요한 자유 입력을 지원하지 않거나 호출이 실패하면 같은 질문을 일반 대화로 전달하고 답변을 기다린다. 도구 접수·실제 화면 표시·사용자의 응답은 별개다. 실제 확인하지 않은 화면 표시와 응답을 성공으로 보고하지 않는다. 참고 자료 사용이나 개별 질문의 답은 PRD·Plan 승인, 외부 쓰기 권한과 별개이며, 각 승인 대상과 범위에 대한 명시적 응답만 해당 승인으로 기록한다. status는 조회만 하며 질문을 위한 기록이나 상태 전이를 만들지 않는다.
+도구가 없거나 현재 모드에서 허용되지 않거나, 필요한 자유 입력을 지원하지 않거나 호출이 실패하면 같은 질문을 일반 대화로 전달하고 답변을 기다린다. PRD·Plan 승인은 검토 대상과 승인 범위를 대화에 명확히 제시한 뒤 가능한 경우 구조화 도구로 승인 여부를 확인한다. 도구 접수·실제 화면 표시·사용자의 응답은 별개다. 실제 확인하지 않은 화면 표시와 응답을 성공으로 보고하지 않는다. 참고 자료 사용이나 개별 질문의 답은 PRD·Plan 승인, 외부 쓰기 권한과 별개이며, 각 승인 대상과 범위에 대한 명시적 응답만 해당 승인으로 기록한다. status는 조회만 하며 질문을 위한 기록이나 상태 전이를 만들지 않는다.

diff --git a/build/codex/adapter.md b/build/codex/adapter.md
@@ -5,7 +5,7 @@
 설치 캐시의 절대 경로를 프로젝트 JSON에 저장하지 않는다.
 
 - 스킬: 호스트가 제공한 스킬 목록에서 Tram 스킬을 선택하고 해당 SKILL.md를 읽어 실행한다. 별도 `Skill` 도구를 가정하지 않는다. 플러그인의 정확한 사용자 호출 표기는 실제 호스트에서 확인한다.
-- 사용자 질문: [공통 질문 계약](context/user-questions.md)에 따라 현재 호스트에서 제공하는 `request_user_input` 또는 `request_user_input_async`의 실제 schema·모드·용도 제한을 확인하고 허용될 때 호출한다. 동기·비동기 도구의 반환 의미는 다르며 비동기 접수는 답변이 아니다. 필수 답변은 실제 응답까지 기다리고 독립 작업은 계속한다. 사용 불가·실패 시 같은 질문을 대화로 전달한다. 호출 접수만으로 UI 표시나 답변을 확인했다고 주장하지 않는다. 기능·모드 허용 여부는 호스트마다 다르므로 자동 전환하거나 전역 설정을 수정하지 않는다.
+- 사용자 질문: [공통 질문 계약](context/user-questions.md)에 따라 현재 호스트에서 제공하는 `request_user_input` 또는 `request_user_input_async`의 실제 schema·모드·용도 제한을 확인하고 공통 계약에 따라 호출한다. 동기·비동기 도구의 반환 의미는 다르며 비동기 접수는 답변이 아니다. 필수 답변은 실제 응답까지 기다리고 독립 작업은 계속한다. 사용 불가·실패 시 같은 질문을 대화로 전달한다. 호출 접수만으로 UI 표시나 답변을 확인했다고 주장하지 않는다. 기능·모드 허용 여부는 호스트마다 다르므로 자동 전환하거나 전역 설정을 수정하지 않는다.
 - 셸·편집: 제공된 `exec_command`·`apply_patch` 도구를 사용한다. 가용 도구 이름이 다르면 실제 목록에 맞춘다.
 - 작업자 실행: 메인이 현재 host 도구 metadata에서 실제 생성·후속 배정·상태 조회·실행 참조 반환 기능을 확인해 사용한다. generic 작업자에게 공통 계약과 지정 단계·소유 파일·확정 명령·권한·반환 근거를 전달한다. 사용자 질문·승인/전이·Task 갱신·재위임을 금지하고, 종료·상태 확인 전 같은 파일에 중복 배정하지 않는다. 특정 도구명이나 지속 실행 기능이 항상 있다고 가정하지 않는다.
 - 지원 제한: 필요한 생성·후속 배정·상태 확인 또는 실행 참조 기능이 없으면 지원 불가·부분 결과를 메인에 보고하고 해당 실행·완료를 보류한다. 작은 순차 저위험 작업·light 검증의 메인 직접 수행 및 full 독립 검증 경계는 설치 root의 `context/start-experience.md` 단일 오케스트레이션 계약을 따른다. 공통 스킬에는 host 도구명을 고정하지 않는다.

diff --git a/platform/codex/adapter.md b/platform/codex/adapter.md
@@ -5,7 +5,7 @@
 설치 캐시의 절대 경로를 프로젝트 JSON에 저장하지 않는다.
 
 - 스킬: 호스트가 제공한 스킬 목록에서 Tram 스킬을 선택하고 해당 SKILL.md를 읽어 실행한다. 별도 `Skill` 도구를 가정하지 않는다. 플러그인의 정확한 사용자 호출 표기는 실제 호스트에서 확인한다.
-- 사용자 질문: [공통 질문 계약](context/user-questions.md)에 따라 현재 호스트에서 제공하는 `request_user_input` 또는 `request_user_input_async`의 실제 schema·모드·용도 제한을 확인하고 허용될 때 호출한다. 동기·비동기 도구의 반환 의미는 다르며 비동기 접수는 답변이 아니다. 필수 답변은 실제 응답까지 기다리고 독립 작업은 계속한다. 사용 불가·실패 시 같은 질문을 대화로 전달한다. 호출 접수만으로 UI 표시나 답변을 확인했다고 주장하지 않는다. 기능·모드 허용 여부는 호스트마다 다르므로 자동 전환하거나 전역 설정을 수정하지 않는다.
+- 사용자 질문: [공통 질문 계약](context/user-questions.md)에 따라 현재 호스트에서 제공하는 `request_user_input` 또는 `request_user_input_async`의 실제 schema·모드·용도 제한을 확인하고 공통 계약에 따라 호출한다. 동기·비동기 도구의 반환 의미는 다르며 비동기 접수는 답변이 아니다. 필수 답변은 실제 응답까지 기다리고 독립 작업은 계속한다. 사용 불가·실패 시 같은 질문을 대화로 전달한다. 호출 접수만으로 UI 표시나 답변을 확인했다고 주장하지 않는다. 기능·모드 허용 여부는 호스트마다 다르므로 자동 전환하거나 전역 설정을 수정하지 않는다.
 - 셸·편집: 제공된 `exec_command`·`apply_patch` 도구를 사용한다. 가용 도구 이름이 다르면 실제 목록에 맞춘다.
 - 작업자 실행: 메인이 현재 host 도구 metadata에서 실제 생성·후속 배정·상태 조회·실행 참조 반환 기능을 확인해 사용한다. generic 작업자에게 공통 계약과 지정 단계·소유 파일·확정 명령·권한·반환 근거를 전달한다. 사용자 질문·승인/전이·Task 갱신·재위임을 금지하고, 종료·상태 확인 전 같은 파일에 중복 배정하지 않는다. 특정 도구명이나 지속 실행 기능이 항상 있다고 가정하지 않는다.
 - 지원 제한: 필요한 생성·후속 배정·상태 확인 또는 실행 참조 기능이 없으면 지원 불가·부분 결과를 메인에 보고하고 해당 실행·완료를 보류한다. 작은 순차 저위험 작업·light 검증의 메인 직접 수행 및 full 독립 검증 경계는 설치 root의 `context/start-experience.md` 단일 오케스트레이션 계약을 따른다. 공통 스킬에는 host 도구명을 고정하지 않는다.

diff --git a/build/claude/adapter.md b/build/claude/adapter.md
@@ -4,7 +4,7 @@
 사용자 진입은 `/tram:init`, `/tram:start`, `/tram:status`; 전문 스킬도 같은 namespace다.
 
 - 스킬 실행: 호스트의 Skill 도구 또는 실제 제공된 스킬 실행 기능을 사용한다.
-- 사용자 질문: [공통 질문 계약](context/user-questions.md)에 따라 현재 호스트에서 제공하는 `AskUserQuestion` 등 실제 구조화 질문 도구의 schema·모드 제한을 확인하고 허용될 때 호출한다. 사용 불가·실패 시 같은 질문을 대화로 전달한다. 호출 접수만으로 UI 표시나 답변을 확인했다고 주장하지 않는다.
+- 사용자 질문: [공통 질문 계약](context/user-questions.md)에 따라 현재 호스트에서 제공하는 `AskUserQuestion` 등 실제 구조화 질문 도구의 schema·모드 제한을 확인하고 공통 계약에 따라 호출한다. 사용 불가·실패 시 같은 질문을 대화로 전달한다. 호출 접수만으로 UI 표시나 답변을 확인했다고 주장하지 않는다.
 - 셸·편집: Bash·Read·Edit·Write 등 실제 제공된 도구를 사용한다. Codex 전용 도구명을 그대로 호출하지 않는다.
 - 작업자 실행: 메인이 현재 host 도구 metadata에서 실제 생성·후속 배정·상태 조회·실행 참조 반환 기능을 확인해 사용한다. generic 작업자에게 공통 계약과 지정 단계·소유 파일·확정 명령·권한·반환 근거를 전달한다. 사용자 질문·승인/전이·Task 갱신·재위임을 금지하고, 종료·상태 확인 전 같은 파일에 중복 배정하지 않는다. 특정 도구명이나 지속 실행 기능이 항상 있다고 가정하지 않는다.
 - 지원 제한: 필요한 생성·후속 배정·상태 확인 또는 실행 참조 기능이 없으면 지원 불가·부분 결과를 메인에 보고하고 해당 실행·완료를 보류한다. 작은 순차 저위험 작업·light 검증의 메인 직접 수행 및 full 독립 검증 경계는 설치 root의 `context/start-experience.md` 단일 오케스트레이션 계약을 따른다. 공통 스킬에는 host 도구명을 고정하지 않는다.

diff --git a/platform/claude/adapter.md b/platform/claude/adapter.md
@@ -4,7 +4,7 @@
 사용자 진입은 `/tram:init`, `/tram:start`, `/tram:status`; 전문 스킬도 같은 namespace다.
 
 - 스킬 실행: 호스트의 Skill 도구 또는 실제 제공된 스킬 실행 기능을 사용한다.
-- 사용자 질문: [공통 질문 계약](context/user-questions.md)에 따라 현재 호스트에서 제공하는 `AskUserQuestion` 등 실제 구조화 질문 도구의 schema·모드 제한을 확인하고 허용될 때 호출한다. 사용 불가·실패 시 같은 질문을 대화로 전달한다. 호출 접수만으로 UI 표시나 답변을 확인했다고 주장하지 않는다.
+- 사용자 질문: [공통 질문 계약](context/user-questions.md)에 따라 현재 호스트에서 제공하는 `AskUserQuestion` 등 실제 구조화 질문 도구의 schema·모드 제한을 확인하고 공통 계약에 따라 호출한다. 사용 불가·실패 시 같은 질문을 대화로 전달한다. 호출 접수만으로 UI 표시나 답변을 확인했다고 주장하지 않는다.
 - 셸·편집: Bash·Read·Edit·Write 등 실제 제공된 도구를 사용한다. Codex 전용 도구명을 그대로 호출하지 않는다.
 - 작업자 실행: 메인이 현재 host 도구 metadata에서 실제 생성·후속 배정·상태 조회·실행 참조 반환 기능을 확인해 사용한다. generic 작업자에게 공통 계약과 지정 단계·소유 파일·확정 명령·권한·반환 근거를 전달한다. 사용자 질문·승인/전이·Task 갱신·재위임을 금지하고, 종료·상태 확인 전 같은 파일에 중복 배정하지 않는다. 특정 도구명이나 지속 실행 기능이 항상 있다고 가정하지 않는다.
 - 지원 제한: 필요한 생성·후속 배정·상태 확인 또는 실행 참조 기능이 없으면 지원 불가·부분 결과를 메인에 보고하고 해당 실행·완료를 보류한다. 작은 순차 저위험 작업·light 검증의 메인 직접 수행 및 full 독립 검증 경계는 설치 root의 `context/start-experience.md` 단일 오케스트레이션 계약을 따른다. 공통 스킬에는 host 도구명을 고정하지 않는다.

diff --git a/build/claude/docs/release-validation.md b/build/claude/docs/release-validation.md
@@ -1,5 +1,11 @@
 # Tram 릴리스 검증 기록
 
+## 설명 문서 정합성 확인 · 2026-11-09
+
+- README와 관련 HTML 도식을 현재 정본·검증 기록에 대조했다. README에는 선택형 하네스 관찰의 역할과 한계를 추가했고, `build/codex/README.md`·`build/claude/README.md`는 빌드로 동기화한다.
+- `os-flow.html`에서 현재 절차에 없는 조건부 footprint 스캔 단계를 제거했다. `context-system.html`에는 검사·정책 후보 관찰이 실행 증거나 승인·완료 판정을 대체하지 않는다는 경계를 반영했다. 두 PNG를 다시 렌더해 잘림과 새 문구를 직접 확인했다.
+- 이 확인은 저장소 문서의 정합성 검사이며 실제 호스트 lifecycle 검증을 추가하지 않는다. README 패키지 생성 검사는 `scripts/build.py --check` 결과를 따른다.
+
 ## 현재 후보 설치·질문 UI 확인 · 2026-11-08
 
 - 실제 Codex CLI 0.166.0에서 별도 `CODEX_HOME`을 사용해 저장소 로컬 marketplace 등록·설치·목록 조회를 수행했다. 현재 `build/codex`의 init 스킬과 격리 설치 cache 파일이 일치했다. 동일 절차를 자동 회귀 검사 `tests/test_codex_plugin_install.py`에 추가했다. 공개 Git 원격에서의 설치나 Desktop 전체 동작 검증은 아니다.

diff --git a/build/codex/docs/release-validation.md b/build/codex/docs/release-validation.md
@@ -1,5 +1,11 @@
 # Tram 릴리스 검증 기록
 
+## 설명 문서 정합성 확인 · 2026-11-09
+
+- README와 관련 HTML 도식을 현재 정본·검증 기록에 대조했다. README에는 선택형 하네스 관찰의 역할과 한계를 추가했고, `build/codex/README.md`·`build/claude/README.md`는 빌드로 동기화한다.
+- `os-flow.html`에서 현재 절차에 없는 조건부 footprint 스캔 단계를 제거했다. `context-system.html`에는 검사·정책 후보 관찰이 실행 증거나 승인·완료 판정을 대체하지 않는다는 경계를 반영했다. 두 PNG를 다시 렌더해 잘림과 새 문구를 직접 확인했다.
+- 이 확인은 저장소 문서의 정합성 검사이며 실제 호스트 lifecycle 검증을 추가하지 않는다. README 패키지 생성 검사는 `scripts/build.py --check` 결과를 따른다.
+
 ## 현재 후보 설치·질문 UI 확인 · 2026-11-08
 
 - 실제 Codex CLI 0.166.0에서 별도 `CODEX_HOME`을 사용해 저장소 로컬 marketplace 등록·설치·목록 조회를 수행했다. 현재 `build/codex`의 init 스킬과 격리 설치 cache 파일이 일치했다. 동일 절차를 자동 회귀 검사 `tests/test_codex_plugin_install.py`에 추가했다. 공개 Git 원격에서의 설치나 Desktop 전체 동작 검증은 아니다.
